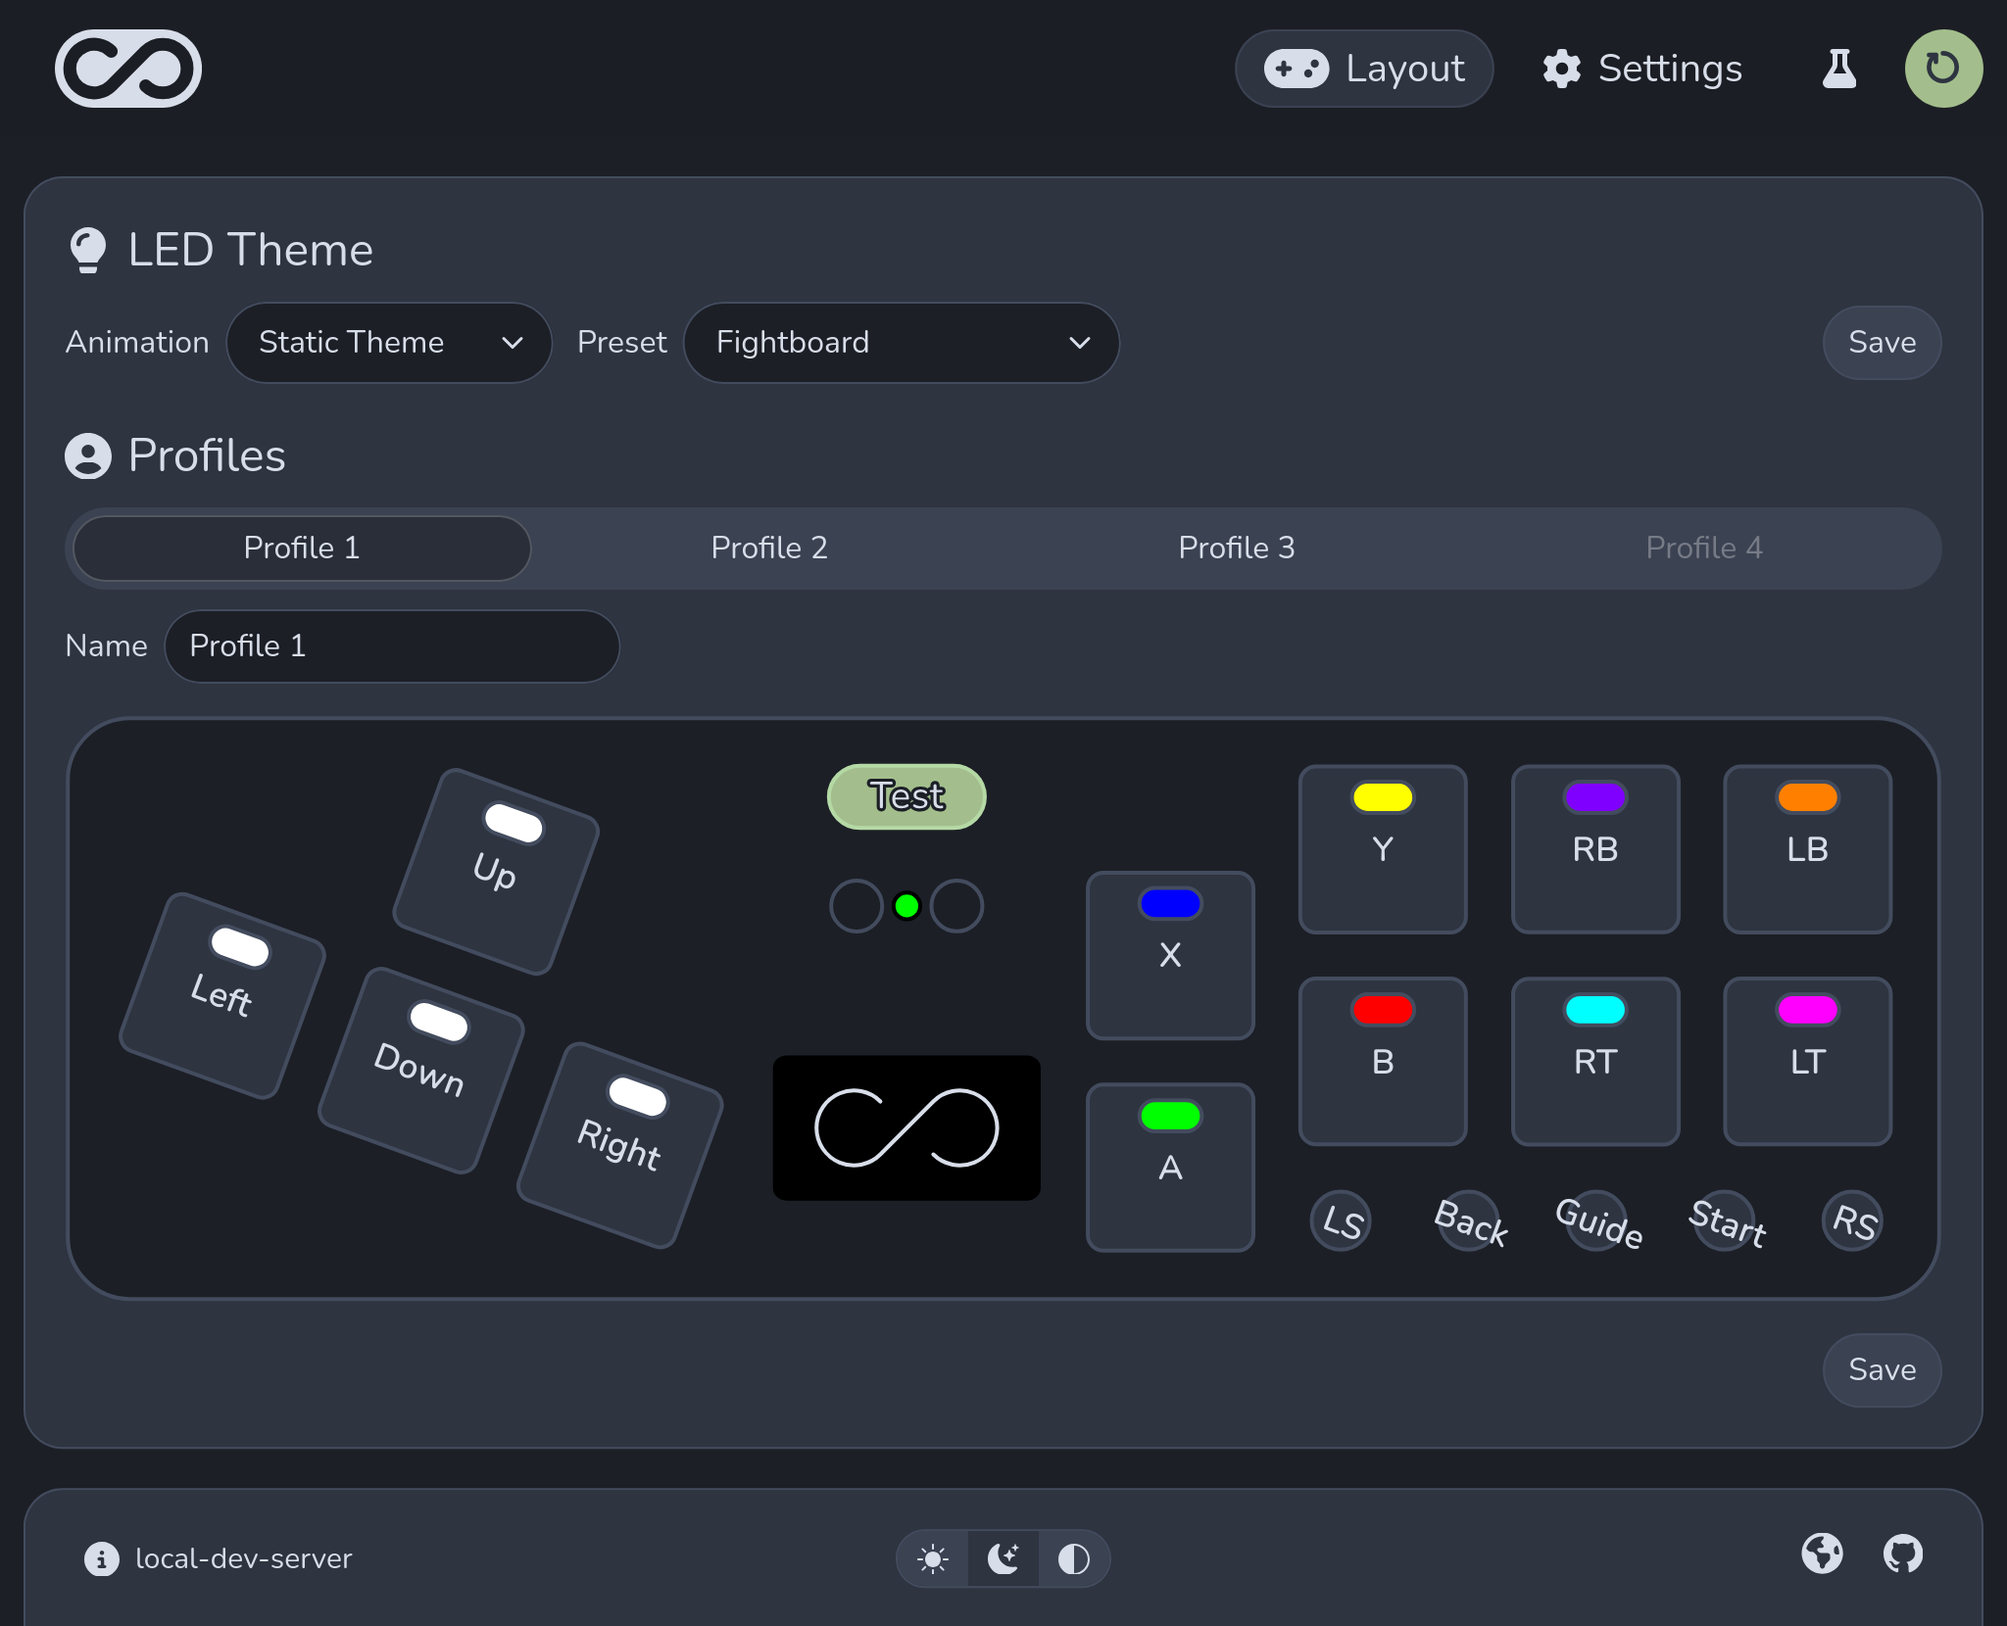
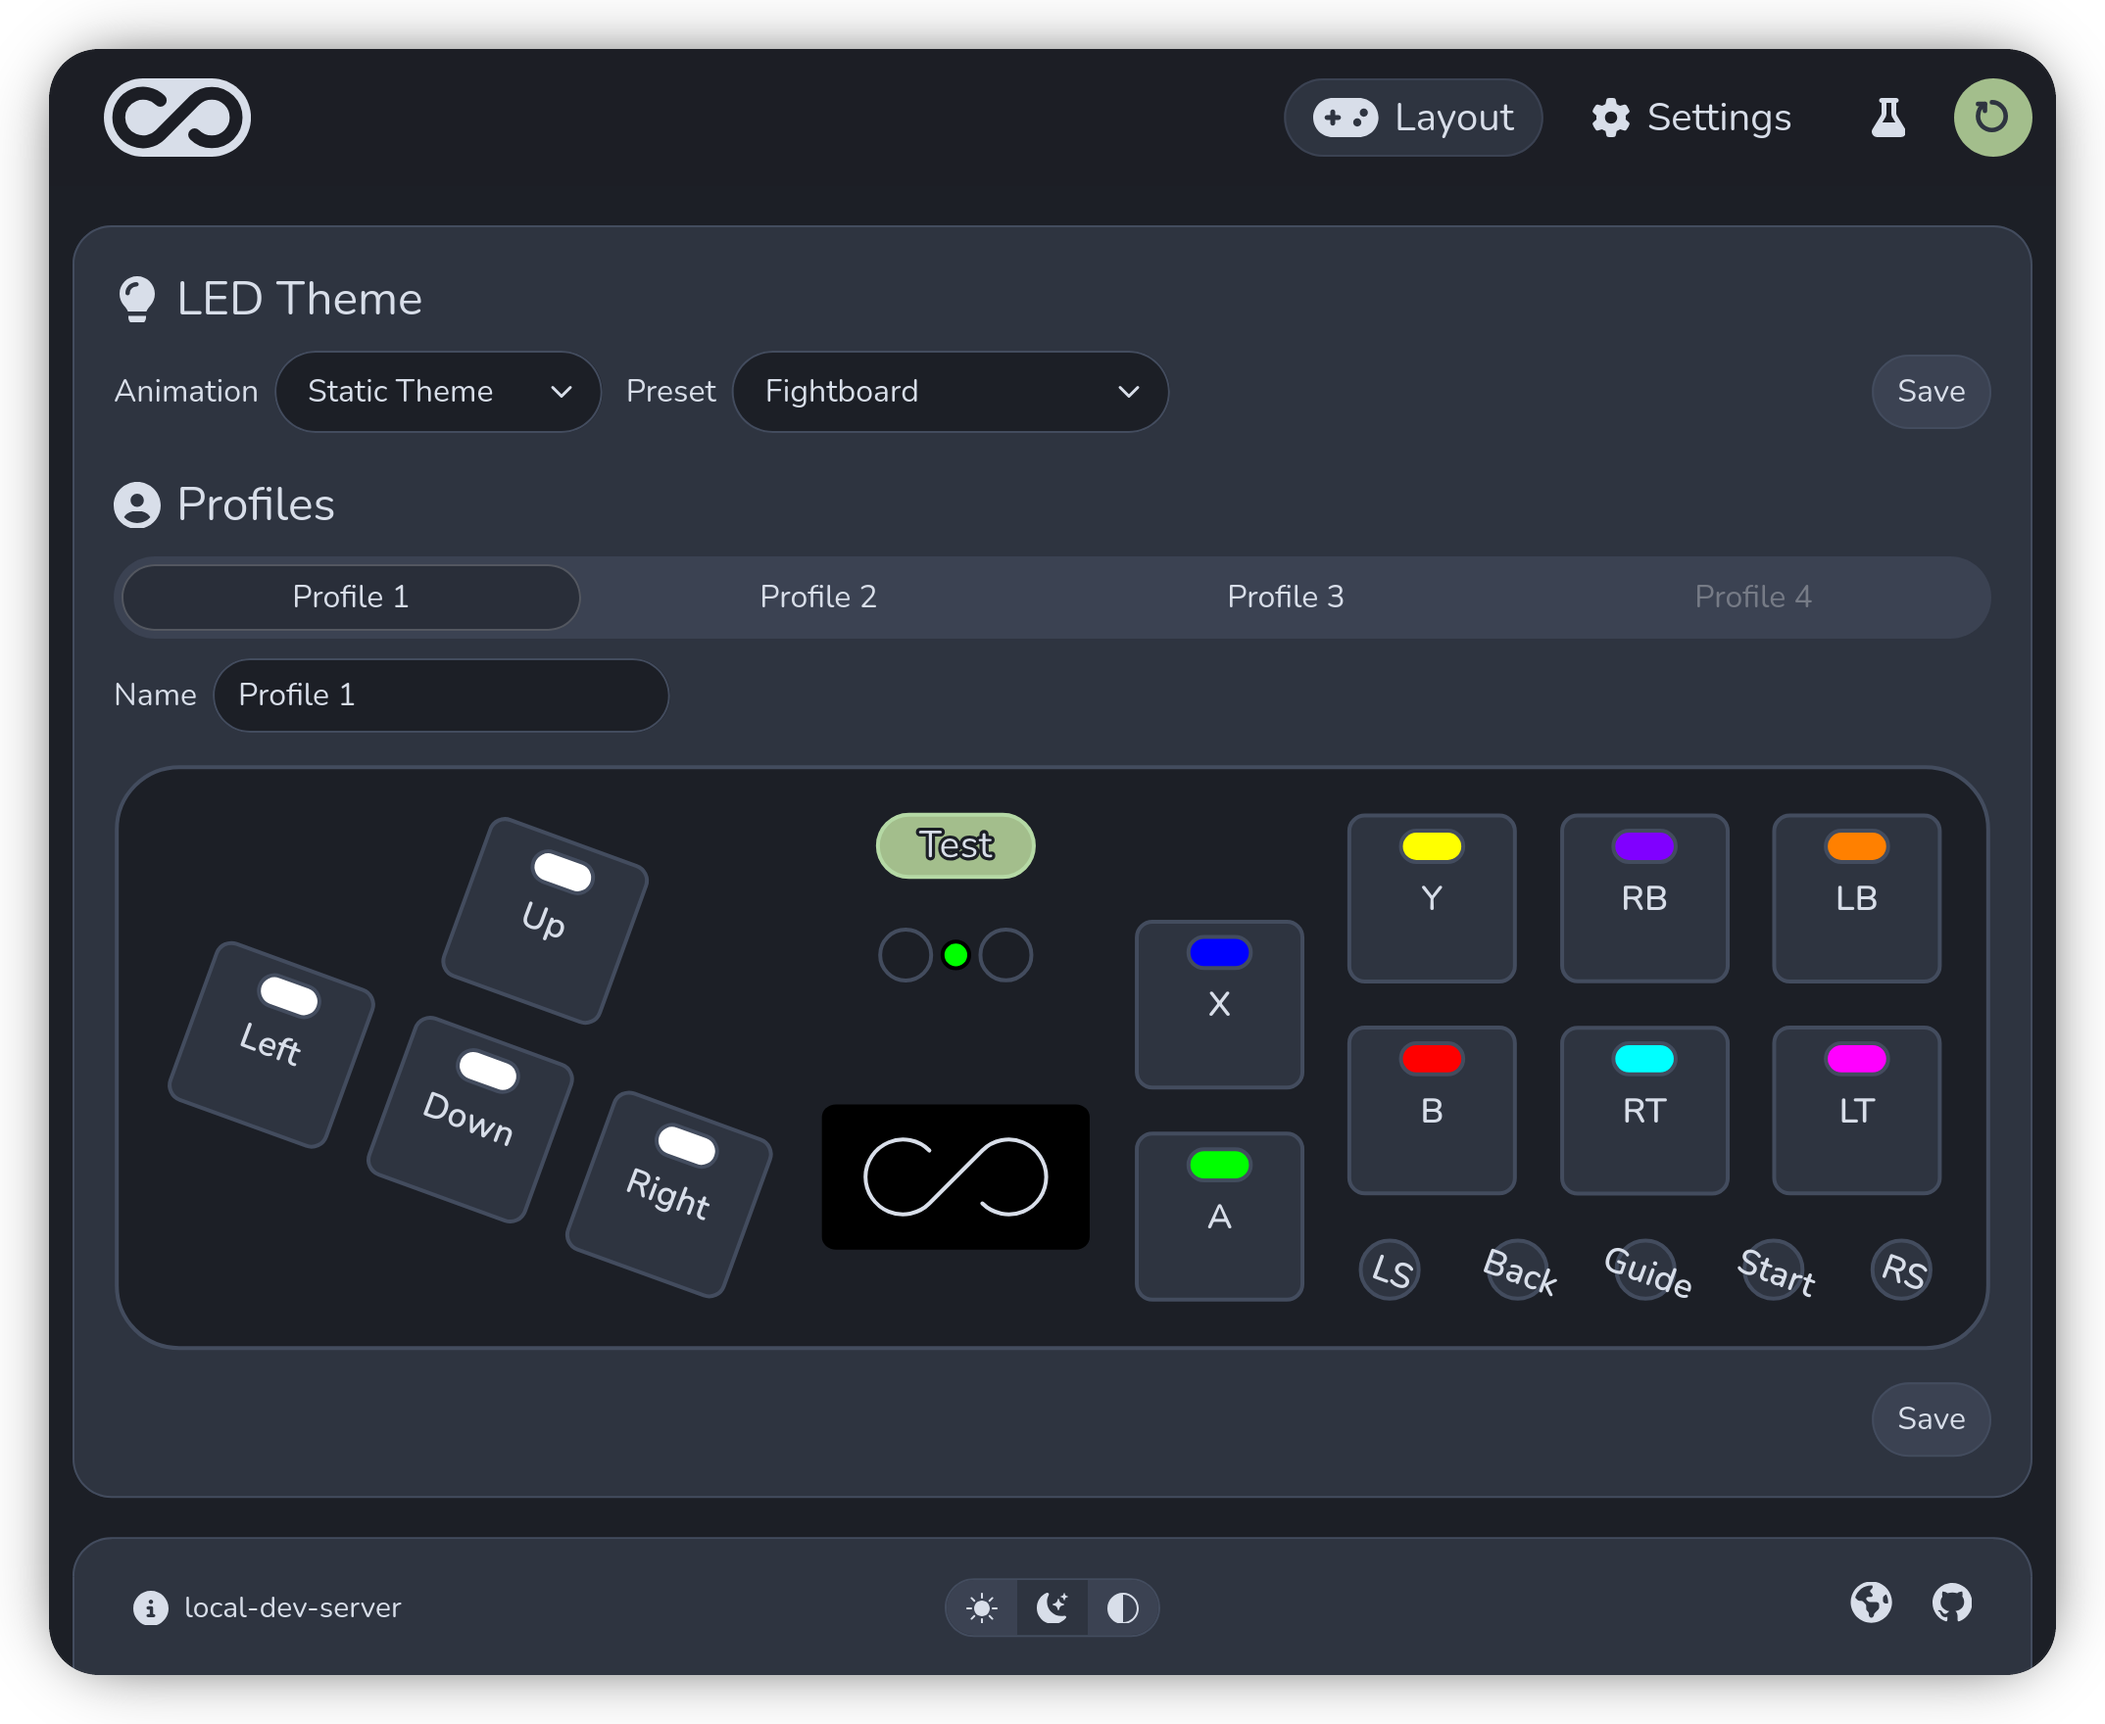
Updated image with new processing script

diff --git a/tools/process-image.py b/tools/process-image.py
@@ -1,0 +1,108 @@
+#!/usr/bin/env python3
+"""Process PNG images: round corners, add padding, add drop shadow."""
+
+import argparse
+from PIL import Image, ImageDraw, ImageFilter
+
+
+def round_corners(image, radius):
+    """Round image corners with antialiasing via supersampling."""
+    image = image.convert('RGBA')
+    scale = 4
+    mask_size = (image.width * scale, image.height * scale)
+    mask = Image.new('L', mask_size, 0)
+    draw = ImageDraw.Draw(mask)
+    draw.rounded_rectangle(
+        [(0, 0), (mask_size[0] - 1, mask_size[1] - 1)],
+        radius=radius * scale,
+        fill=255,
+    )
+    mask = mask.resize(image.size, Image.LANCZOS)
+    alpha = image.split()[3]
+    alpha = Image.composite(
+        alpha, Image.new('L', image.size, 0), mask
+    )
+    image.putalpha(alpha)
+    return image
+
+
+def expand(image, padding):
+    """Add transparent padding around the image."""
+    image = image.convert('RGBA')
+    if isinstance(padding, int):
+        padding = (padding, padding, padding, padding)
+    left, top, right, bottom = padding
+    new_size = (image.width + left + right, image.height + top + bottom)
+    result = Image.new('RGBA', new_size, (0, 0, 0, 0))
+    result.paste(image, (left, top))
+    return result
+
+
+def add_shadow(image, blur_radius):
+    """Add a centered black drop shadow behind the image."""
+    image = image.convert('RGBA')
+    alpha = image.split()[3]
+    shadow = Image.new('RGBA', image.size, (0, 0, 0, 0))
+    shadow.paste((0, 0, 0, 255), mask=alpha)
+    shadow = shadow.filter(ImageFilter.GaussianBlur(blur_radius))
+    result = Image.new('RGBA', image.size, (0, 0, 0, 0))
+    result.paste(shadow, (0, 0), shadow)
+    result.paste(image, (0, 0), image)
+    return result
+
+
+def parse_padding(values):
+    """Parse padding argument: 1 value for all sides, 4 for LTRB."""
+    if len(values) == 1:
+        return values[0]
+    elif len(values) == 4:
+        return tuple(values)
+    else:
+        raise argparse.ArgumentTypeError(
+            'requires 1 value (all sides) or 4 values '
+            '(left top right bottom)'
+        )
+
+
+def main():
+    parser = argparse.ArgumentParser(
+        description='Process PNG images: round corners, add padding, '
+        'add drop shadow.'
+    )
+    parser.add_argument('input', help='Input PNG file')
+    parser.add_argument('output', help='Output PNG file')
+    parser.add_argument(
+        '-r', '--radius', type=int, default=None,
+        help='Corner radius in pixels (rounded corners)'
+    )
+    parser.add_argument(
+        '-e', '--expand', type=int, nargs='+', default=None,
+        help='Padding: 1 value for all sides, or 4 for '
+        'left top right bottom'
+    )
+    parser.add_argument(
+        '-s', '--shadow', type=int, default=None,
+        help='Drop shadow blur radius in pixels'
+    )
+
+    args = parser.parse_args()
+
+    if args.expand is not None:
+        args.expand = parse_padding(args.expand)
+
+    image = Image.open(args.input).convert('RGBA')
+
+    if args.radius is not None:
+        image = round_corners(image, args.radius)
+
+    if args.expand is not None:
+        image = expand(image, args.expand)
+
+    if args.shadow is not None:
+        image = add_shadow(image, args.shadow)
+
+    image.save(args.output)
+
+
+if __name__ == '__main__':
+    main()
